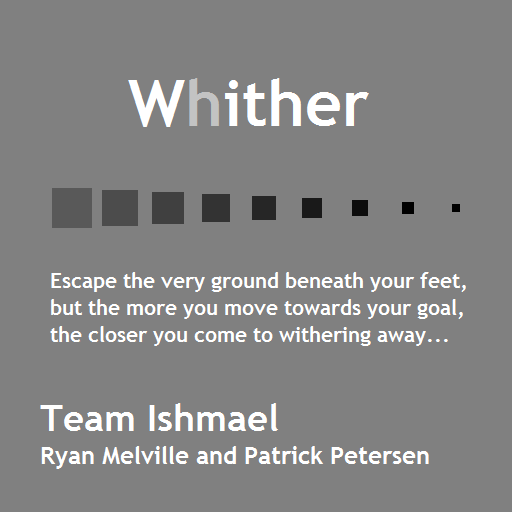
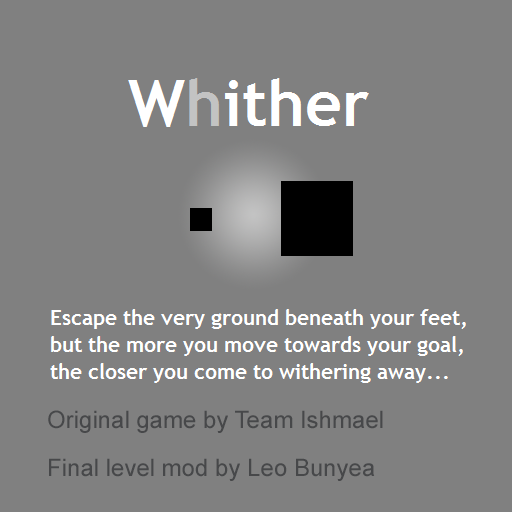
Leo's Whither mod now on the website

diff --git a/imgd2900/index.html b/imgd2900/index.html
@@ -114,6 +114,13 @@
                         </div>
                     </a>
                 </div>
+                <div class="w3-quarter">
+                    <a href="whither-leo/cover.html">
+                        <div class="w3-display-container">
+                            <img src="whither-leo/whither.png" style="width:100%" alt="Leo's Whither Mod">
+                        </div>
+                    </a>
+                </div>
             </div>
 
             <h1 class="w3-xxlarge w3-text-red"><b>Old Versions</b></h1>
